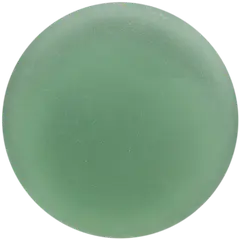
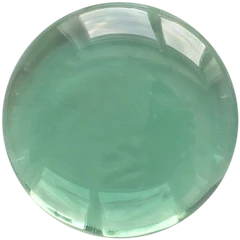
Duygu çiçeği: parlak cam diskler, açık oyma yazı (#197)
Claude-Session: https://claude.ai/code/session_01HjT8wZmLW9eAuP1V4jzyXX

diff --git a/components/MoodBloom.tsx b/components/MoodBloom.tsx
@@ -158,7 +158,7 @@ export function MoodBloom({
             const lo = i * 0.035, hi = Math.min(1, 0.66 + i * 0.035);
             const k = bloom.interpolate({ inputRange: [lo, hi], outputRange: [0, 1], extrapolate: 'clamp' });
             const c = colorOf(m);
-            const ink = mixHex(c, '#14161c', 0.42);   // oyma: camın koyu tonu; altındaki açık çizgi kesiğin kenarı
+            const ink = mixHex(c, '#ffffff', 0.72);   // oyma: kumlanmış kesik camdan açık görünür (Gemini örneği); üstünde ince koyu kenar
             const on = selected === m;
             const label = t(`mood.${m}`);
             return (
@@ -243,9 +243,10 @@ const makeStyles = (Colors: Palette) => StyleSheet.create({
   petalPressed: { opacity: 0.88, transform: [{ scale: 0.95 }] },
   ring: { position: 'absolute', borderWidth: 2 },
   petalText: {
-    // Oyma yazı: camın koyu tonu biraz saydam + altında keskin açık çizgi (kesiğin ışık alan alt kenarı).
-    fontFamily: Fonts.jostMedium, fontSize: 13.5, textAlign: 'center', letterSpacing: 0.4, opacity: 0.82,
-    textShadowColor: 'rgba(255,255,255,0.6)', textShadowOffset: { width: 0, height: 1 }, textShadowRadius: 0,
+    // Oyma yazı (Gemini örneği, 15 Kasım 2026): parlak camda kumlanmış harfler açık ve mat görünür; kesiğin
+    // gölgede kalan üst kenarı ince koyu bir çizgi.
+    fontFamily: Fonts.jostMedium, fontSize: 13.5, textAlign: 'center', letterSpacing: 0.4, opacity: 0.95,
+    textShadowColor: 'rgba(0,0,0,0.35)', textShadowOffset: { width: 0, height: -0.75 }, textShadowRadius: 0.5,
   },
   // En uzun etiketler (RU "Благодарность", DE "Dankbarkeit") yaprağa sığsın; web'de adjustsFontSizeToFit yok.
   petalTextLong: { fontSize: 11, letterSpacing: 0 },

diff --git a/CLAUDE.md b/CLAUDE.md
@@ -84,7 +84,7 @@
   - Ses: başlarken `startBreathSound()` **dokunma işleyicisinin içinde, await'siz** (iOS kuralı); bitince/ekrandan çıkınca/arka planda `stopBreathSound()`. Sağ üstteki 🔊 yalnız sessize alma tercihi.
   - Animasyon yalnız `transform`/`opacity` (native driver). Web'de kullanıcının gördüğüyle aynı; titreşim (haptics) Apple'daki gibi eklenmedi — özellik daha önce kaldırılmıştı.
 - `components/Onboarding.tsx` — ilk açılış **6 slayt**: logo animasyonu (Ω SVG stroke ~4s, sessiz sahne) + dil seçimi + pratik + koç + bilgelik&nefes + hatırlatıcı; `_layout.tsx`'te `stoikos_onboarded` bayrağıyla bir kez. **Tekrar izleme:** Ayarlar'daki "Tanıtımı tekrar göster" düğmesi → `constants/onboarding.ts` (`replayOnboarding`/`onReplayOnboarding`) bayrağı silip root'taki Onboarding'i canlı tetikler.
-- `app/(tabs)/index.tsx` — **Ana** (22 Ekim 2026'da yeniden düzenlendi; tasarım https://claude.ai/artifact/FZz35bq2tG1wDTvwFQphtB). Sıra: selamlama → nefes çiçeği (daha sıkı kart) → **Kaldığın yer** (yarım kalan ilk program, bugünkü günün adı, 7 parçalı çizgi, programın kendi rengi; yoksa başlanmamış ilk program "Bir yolculuğa başla"; hepsi bittiyse kart yok; dokununca `/programs?open=<id>&day=<n>` → program ve o günün penceresi açılır) → **Nasıl hissediyorsun?** (9 duygu çipi, `MOOD_THEMES` artık `content.ts`'te; seçince `getMoodQuote` o temadan günün sözünü kartta gösterir, bağlantı `/wisdom?mood=<tema>`) — **11 Kasım 2026'da 3×3 ızgara oldu** (kullanıcı seçimi **C**; tasarım https://claude.ai/artifact/DJVJ7UFJbmBz8iXJc3J3RQ): başlık "Bugün aklında ne var?" (`mood.title`, 6 dil; eski "neye ihtiyacın var" Kaygı/Öfke ile uyuşmuyordu), dokuz eşit kutu (66 px), her temanın kendi rengi (`MOOD_COLORS` [koyu, açık tema]; nokta o renkte, seçilen kutu o renkle dolar), sözün üstünde renkli noktalı tema etiketi; 11 karakterden uzun etiket 12 px (RU "Благодарность"). **Aynı gün kapalı kutuya çevrildi** (kullanıcı fikri: "kutu olsun, tıklayınca dokuz durum şık açılsın, ekrandaki dağınıklığı önleriz"): kapalıyken yalnız başlık + dokuz renkli nokta + "Dokun ve seç" (`mood.hint`, 6 dil) + ok; dokununca ızgara kutu kutu belirir (28 ms arayla, "Hareketi Azalt"ta anında), seçince 0,3 sn sonra toplanır ve söz kartta kalır; başlığa yeniden dokununca değiştirilebilir. **13 Kasım 2026: aşağı açılan ızgara yerine "duygu çiçeği"** (kullanıcı: "nefes orbu gibi genişleyerek açılsa"; `components/MoodBloom.tsx`): kutu hep kapalı durur (başlık + "Dokun ve seç" + dokuz renkli noktadan küçük bir tomurcuk); dokununca ekranı kaplayan katmanda dokuz renkli yaprak **tomurcuğun olduğu yerden** çıkıp dönerek halka olur (tek `bloom` değeri, transform/opacity, 640 ms; `Modal`), ortada × düğmesi; seçince ya da boşluğa dokununca yapraklar toplanır, söz kartta kalır. 9 karakterden uzun etiket 12 px. Aynı gün kullanıcı düzeltmesi ("daha yavaş ve akıcı, kapanış da aynı hızda; daireler çok basit"): açılış ve kapanış **aynı süre ve eğri** (`BLOOM_MS` 1150, inOut cubic); yapraklar düz daire değil **cam boncuk** (SVG: ışık vuran yüzey + yumuşak hale + ince parlak kenar), arkada ince yörünge halkası, ortada logodaki **altın küre** (× ile kapatır). **15 Kasım 2026 düzeltmesi** (kullanıcının iPhone videosu: "açılıp kapanma, dokuz durum nasıl?"): boncuklar üst üste biniyordu ve renkler "şeker topu" gibi canlıydı → halka genişledi, boncuk küçüldü (`R` 0,31W→0,335W, `D` 0,275W→0,215W; aralarında ~7 px boşluk), renkler kendi gri tonuna %28 karıştırılıyor (`mute`, `MUTE`), parıltı ve kenar hafifledi; etiket 13,5 px, 8 karakterden uzunu 11 px (RU "Благодарность" sığıyor). TR/RU/DE'de kontrol edildi. **Aynı gün taş boncuk** (kullanıcı deniz camı / cilalı taş görselleri gönderdi, "çok rahatlatıcı olmaz mı"; üç yön çizildi — A Deniz camı, B Cilalı akik, C Ay ışığında cam — **A** seçildi): yapraklar artık düzensiz çakıl biçimli (tohumlu, her duygu sabit biçim + hafif eğik), buzlu süt-pastel gövde, içten ışık, minik kabarcıklar, yumuşak parlama, altında gölge; yazı her temada koyu (rengin koyusu). Taş rengi her temada açık temanın tonundan (`colorOf` → `MOOD_COLORS[m][1]`). Yalnız react-native-svg öğeleri (Path, Ellipse, RadialGradient). **Aynı gün buzlu cam disk** (kullanıcı gerçek buzlu deniz camı fotoğrafı: "gerçek bir cam gibi aynı boyda, yazı da kazınmış gibi"): çakıl biçimi, kabarcık ve parlama kaldırıldı → hepsi aynı boyda, neredeyse yuvarlak (10 noktalı, ±%2,5), mat gövde (merkez koyu, kenar açık), ince kumlama dokusu (70 çok soluk nokta), altında camın kendi renginde yumuşak gölge; yazı **oyma** (`petalText`: camın koyu tonu %82 + altında keskin beyaz `textShadow` 0,1 / yarıçap 0). **Aynı gün gerçek cam görseli** (kullanıcı: "istediğim gibi olmadı" → Gemini'ye komut yazıldı, kullanıcı üretti): diskler artık **Gemini'nin ürettiği 3x3 buzlu cam görselinden** kesilmiş fotoğraflar — `assets/mood/<duygu>.webp` (240 px, ~6 KB), kaynak `docs/mood-cam/gemini-dokuz-disk.jpg`, kesme betiği `scripts/brand/cut-mood-discs.py` (gölge diskin altına düştüğü için maske üst yarıdan ölçülen daire). Yazı yine kodla (6 dil; görsel yapay zekâ harfleri bozuyor), oyma örneği `docs/mood-cam/gemini-oyma-ornegi.jpg`. Gölge kodla, camın renginde. Yeni disk gerekirse aynı komutla yeniden üretip betikle kes. ⚠ Hale yaprağın dışına taşar: dokunma alanı yalnız yaprağın kendisi olmalı (`pointerEvents="box-none"` + ayrı `Pressable`), yoksa komşunun halesi dokunuşu yutar (testte yakalandı). Ege/TR ve Gece/RU'da kare kare kontrol edildi → günün alıntısı (tırnak başlığın yanında, eskiden başlığın altına giriyordu) → Pratik/Koç kısayolları → süreklilik. Eski BUGÜN listesi (Günlük Pratik / Koç / Bilgelik kartları alt menünün kopyasıydı) ve Ω filigranı kaldırıldı; `home.mod.*` anahtarları artık kullanılmıyor.
+- `app/(tabs)/index.tsx` — **Ana** (22 Ekim 2026'da yeniden düzenlendi; tasarım https://claude.ai/artifact/FZz35bq2tG1wDTvwFQphtB). Sıra: selamlama → nefes çiçeği (daha sıkı kart) → **Kaldığın yer** (yarım kalan ilk program, bugünkü günün adı, 7 parçalı çizgi, programın kendi rengi; yoksa başlanmamış ilk program "Bir yolculuğa başla"; hepsi bittiyse kart yok; dokununca `/programs?open=<id>&day=<n>` → program ve o günün penceresi açılır) → **Nasıl hissediyorsun?** (9 duygu çipi, `MOOD_THEMES` artık `content.ts`'te; seçince `getMoodQuote` o temadan günün sözünü kartta gösterir, bağlantı `/wisdom?mood=<tema>`) — **11 Kasım 2026'da 3×3 ızgara oldu** (kullanıcı seçimi **C**; tasarım https://claude.ai/artifact/DJVJ7UFJbmBz8iXJc3J3RQ): başlık "Bugün aklında ne var?" (`mood.title`, 6 dil; eski "neye ihtiyacın var" Kaygı/Öfke ile uyuşmuyordu), dokuz eşit kutu (66 px), her temanın kendi rengi (`MOOD_COLORS` [koyu, açık tema]; nokta o renkte, seçilen kutu o renkle dolar), sözün üstünde renkli noktalı tema etiketi; 11 karakterden uzun etiket 12 px (RU "Благодарность"). **Aynı gün kapalı kutuya çevrildi** (kullanıcı fikri: "kutu olsun, tıklayınca dokuz durum şık açılsın, ekrandaki dağınıklığı önleriz"): kapalıyken yalnız başlık + dokuz renkli nokta + "Dokun ve seç" (`mood.hint`, 6 dil) + ok; dokununca ızgara kutu kutu belirir (28 ms arayla, "Hareketi Azalt"ta anında), seçince 0,3 sn sonra toplanır ve söz kartta kalır; başlığa yeniden dokununca değiştirilebilir. **13 Kasım 2026: aşağı açılan ızgara yerine "duygu çiçeği"** (kullanıcı: "nefes orbu gibi genişleyerek açılsa"; `components/MoodBloom.tsx`): kutu hep kapalı durur (başlık + "Dokun ve seç" + dokuz renkli noktadan küçük bir tomurcuk); dokununca ekranı kaplayan katmanda dokuz renkli yaprak **tomurcuğun olduğu yerden** çıkıp dönerek halka olur (tek `bloom` değeri, transform/opacity, 640 ms; `Modal`), ortada × düğmesi; seçince ya da boşluğa dokununca yapraklar toplanır, söz kartta kalır. 9 karakterden uzun etiket 12 px. Aynı gün kullanıcı düzeltmesi ("daha yavaş ve akıcı, kapanış da aynı hızda; daireler çok basit"): açılış ve kapanış **aynı süre ve eğri** (`BLOOM_MS` 1150, inOut cubic); yapraklar düz daire değil **cam boncuk** (SVG: ışık vuran yüzey + yumuşak hale + ince parlak kenar), arkada ince yörünge halkası, ortada logodaki **altın küre** (× ile kapatır). **15 Kasım 2026 düzeltmesi** (kullanıcının iPhone videosu: "açılıp kapanma, dokuz durum nasıl?"): boncuklar üst üste biniyordu ve renkler "şeker topu" gibi canlıydı → halka genişledi, boncuk küçüldü (`R` 0,31W→0,335W, `D` 0,275W→0,215W; aralarında ~7 px boşluk), renkler kendi gri tonuna %28 karıştırılıyor (`mute`, `MUTE`), parıltı ve kenar hafifledi; etiket 13,5 px, 8 karakterden uzunu 11 px (RU "Благодарность" sığıyor). TR/RU/DE'de kontrol edildi. **Aynı gün taş boncuk** (kullanıcı deniz camı / cilalı taş görselleri gönderdi, "çok rahatlatıcı olmaz mı"; üç yön çizildi — A Deniz camı, B Cilalı akik, C Ay ışığında cam — **A** seçildi): yapraklar artık düzensiz çakıl biçimli (tohumlu, her duygu sabit biçim + hafif eğik), buzlu süt-pastel gövde, içten ışık, minik kabarcıklar, yumuşak parlama, altında gölge; yazı her temada koyu (rengin koyusu). Taş rengi her temada açık temanın tonundan (`colorOf` → `MOOD_COLORS[m][1]`). Yalnız react-native-svg öğeleri (Path, Ellipse, RadialGradient). **Aynı gün buzlu cam disk** (kullanıcı gerçek buzlu deniz camı fotoğrafı: "gerçek bir cam gibi aynı boyda, yazı da kazınmış gibi"): çakıl biçimi, kabarcık ve parlama kaldırıldı → hepsi aynı boyda, neredeyse yuvarlak (10 noktalı, ±%2,5), mat gövde (merkez koyu, kenar açık), ince kumlama dokusu (70 çok soluk nokta), altında camın kendi renginde yumuşak gölge; yazı **oyma** (`petalText`: camın koyu tonu %82 + altında keskin beyaz `textShadow` 0,1 / yarıçap 0). **Aynı gün gerçek cam görseli** (kullanıcı: "istediğim gibi olmadı" → Gemini'ye komut yazıldı, kullanıcı üretti): diskler artık **Gemini'nin ürettiği 3x3 buzlu cam görselinden** kesilmiş fotoğraflar — `assets/mood/<duygu>.webp` (240 px, ~6 KB), kaynak `docs/mood-cam/gemini-dokuz-disk.jpg`, kesme betiği `scripts/brand/cut-mood-discs.py` (gölge diskin altına düştüğü için maske üst yarıdan ölçülen daire). Yazı yine kodla (6 dil; görsel yapay zekâ harfleri bozuyor), oyma örneği `docs/mood-cam/gemini-oyma-ornegi.jpg`. Gölge kodla, camın renginde. Yeni disk gerekirse aynı komutla yeniden üretip betikle kes. **Aynı gün parlak cam seçildi** (kullanıcı Gemini'nin parlak/yansımalı sürümünü ve oyma örneğini gönderdi: "bunu yapalım"): `gemini-dokuz-disk.jpg` artık parlak cam; oyma yazı örnekteki gibi **açık ve mat** (`ink` = rengin %72 beyazı) + üstte ince koyu kesik kenarı (`textShadow` 0,−0,75). ⚠ Hale yaprağın dışına taşar: dokunma alanı yalnız yaprağın kendisi olmalı (`pointerEvents="box-none"` + ayrı `Pressable`), yoksa komşunun halesi dokunuşu yutar (testte yakalandı). Ege/TR ve Gece/RU'da kare kare kontrol edildi → günün alıntısı (tırnak başlığın yanında, eskiden başlığın altına giriyordu) → Pratik/Koç kısayolları → süreklilik. Eski BUGÜN listesi (Günlük Pratik / Koç / Bilgelik kartları alt menünün kopyasıydı) ve Ω filigranı kaldırıldı; `home.mod.*` anahtarları artık kullanılmıyor.
 - `hooks/useStreak.ts` — süreklilik **kayıtlardan** (`stoikos_completed_<tarih>`) geriye sayılır; bugün boşsa dünden başlar. 22 Ekim 2026'ya kadar yalnız Ana ekran açılınca artan ayrı bir sayaçtı (`stoikos_streak`, artık okunmuyor) ve noktalarla çelişebiliyordu.
 - `app/(tabs)/wisdom.tsx` — Bilgelik: alıntılar. **Mod anahtarı + tek tekerlek** (Alternatif 1): "FİLTRE" altında segment `Filozof | Ruh Hali` (`mode` state) + ayrı **♥ favori** düğmesi; altında moda göre içerik gösteren TEK `WheelSelector` (`key={mode}` ile remount, itemW author=168/mood=132). `switchMode` boyut değişince filtre o boyuta ait değilse 'all'a döner. `filter` tek state: 'all' | 'fav' | authorId | 'mood:<tema>'. Tekerlek: **sonlu** (21 Ekim 2026'ya kadar sonsuz döngüydü; kullanıcı istemedi — "Tümü" başta, son seçenekte durur), oklar yok, parmakla kaydırma ya da dokunarak seçim, yanlar perspektifle silik. Altında `wheelCount` ("{n} alıntı"; artık FlatList başlığı, listeyle kayar). **Katlanan başlık** (21 Ekim 2026; başlık ekranın %59'unu kaplıyordu — tasarım https://claude.ai/artifact/SshR9vfMgQunnR9Cn4DiZk): başlık `tabs.wisdom` ("Bilgelik") + altında `wisdom.title` italik tek satır (`wisdom.subtitle` ve "FİLTRE" etiketi artık kullanılmıyor), sekmeler ve mod anahtarı tek `Animated.View` içinde; liste 60 px kayınca katlanır (yalnız tekerlek kalır), 8 px'in altına dönünce açılır. Kapanma için listenin başlık yüksekliği + 80 px fazladan kaydırma payı şart (yoksa titrer); sekme/filtre değişince liste başa döner ve başlık açılır. Boş liste → `ListEmptyComponent` (Favoriler boşsa özel mesaj). Ana ekran mood kısayolu `mode='mood'` yapar. (Eski iki-yığılı tekerlek ve `FilterDropdown` kaldırıldı.) Kavramlar: modal + sesli okuma + pratik bağ. **3. sekme "Filozoflar"**: 10 Stoacı düşünür kartı (`PHILOSOPHERS_RAW`/`getPhilosophers` content.ts; id'ler AUTHORS ile aynı), Kavramlar kart/detay desenini taklit eder (monogram + isim + dönem + tek satır → modal: hikâye + "Stoacılığa katkısı"). Alıntıdaki yazar adı (filozof kartı olanlar) `›` ile dokunulabilir → `openPhilosopher` ile sekme+kart açar (`PHILOSOPHER_IDS`). Filozof içeriği **altı dilde tam** (doğrulandı 28 Eylül 2026: her dilde 40 alan). Eskiden yalnız TR'ydi, çeviri commit 6ed2b650'de yapıldı.
 - `app/(tabs)/coach.tsx` — Claude koç (backend `sendCoach`), `>` ile alıntı parse, sessiz (sesli okuma yok). **Şeffaflık notu** (Ekim 2026, şüpheci kullanıcı denetimi): ilk ekranda öneri çiplerinin altında `coach.disclaimer` — yapay zekâ olduğu, mesajların Anthropic'e gittiği, terapi olmadığı. "Sıfırla" artık onay soruyor ve sunucu hafızasının Ayarlar'dan ayrıca silindiğini söylüyor. Başlıkta **kalan ücretsiz hak rozeti** (`getCoachQuota`), hak bitince yazma alanı yerine tek eylem butonu + `components/Paywall.tsx`. Backend 429'da `scope` (`minute`/`day`) döner, çeviri uygulamada (`coach.tooFast`/`coach.dailyLimit`); 402'de balon yok, doğrudan duvar açılır.
